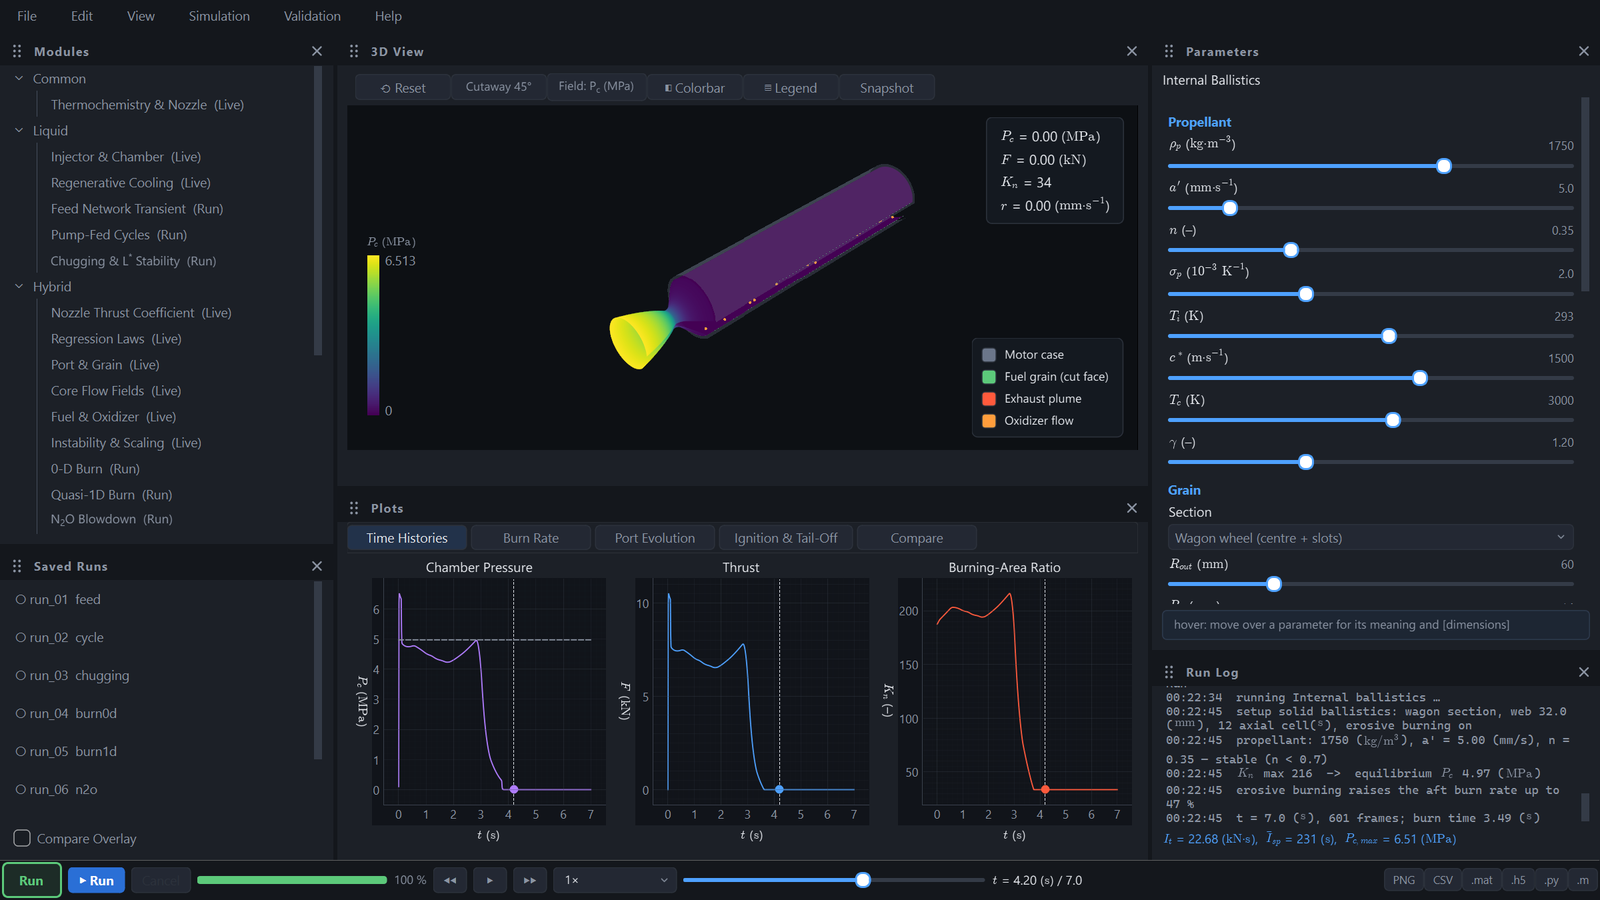
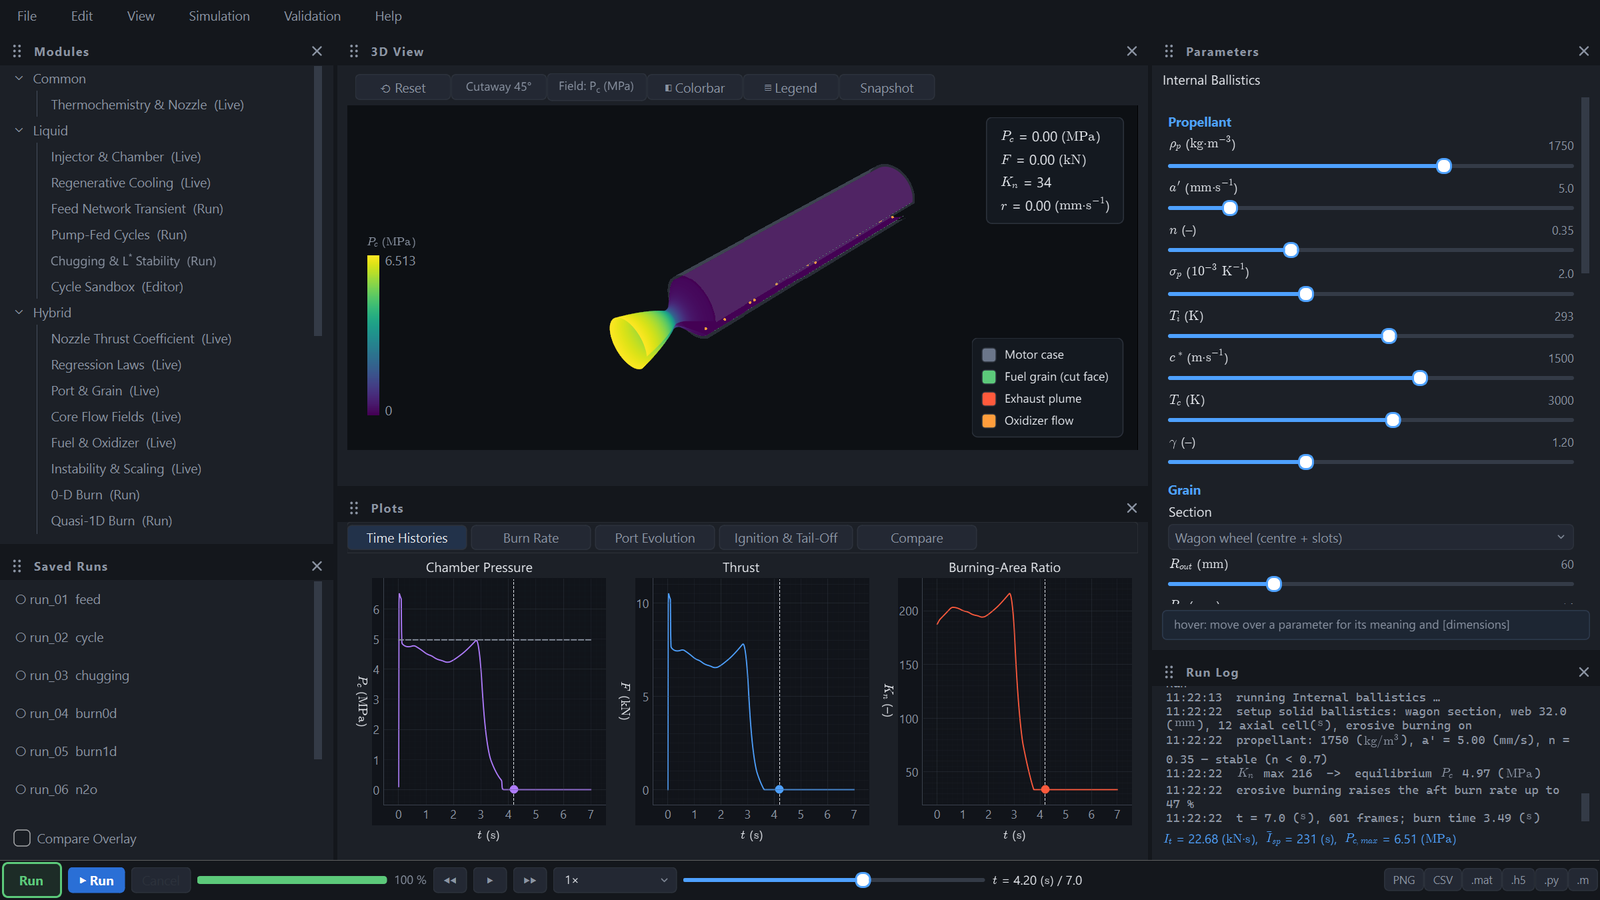
Gallery: add the Nuclear models and the cycle sandbox, renumber, regenerate all images

Changed region(s): [[0.0312, 0.3111, 0.1562, 0.5911], [0.1875, 0.3733, 0.2188, 0.4044]]

diff --git a/README.md b/README.md
@@ -271,12 +271,24 @@ Questions and bug reports: [GitHub Issues](https://github.com/Chiyami1213/propsi
     <td><img src="docs/gallery/28-low-thrust-spiral.png" alt="Low-thrust spiral: low-thrust Edelbaum spiral with solar-array degradation"><br><sub><b>Low-thrust spiral</b> (Electric, Run)</sub></td>
   </tr>
   <tr>
-    <td><img src="docs/gallery/29-vehicle-and-staging.png" alt="Vehicle & staging: staging budget (ideal velocity, mass, thrust-to-weight), atmosphere, drag and wind, with a stack sketch"><br><sub><b>Vehicle & staging</b> (Vehicle, Live)</sub></td>
-    <td><img src="docs/gallery/30-point-mass-ascent.png" alt="Point-mass ascent: 2-D point-mass ascent over a spherical Earth with staging, wind, drag and imported thrust profiles"><br><sub><b>Point-mass ascent</b> (Vehicle, Run)</sub></td>
+    <td><img src="docs/gallery/29-ntr-performance.png" alt="NTR performance: chamber temperature, pressure and area ratio give I_sp, flow, reactor power and core size against a LOX / LH₂ engine"><br><sub><b>NTR performance</b> (Nuclear, Live)</sub></td>
+    <td><img src="docs/gallery/30-reactor-criticality.png" alt="Reactor criticality: one-group bare or reflected reactor, k_eff, critical size and mass, reflector savings and the flux shape"><br><sub><b>Reactor criticality</b> (Nuclear, Live)</sub></td>
   </tr>
   <tr>
-    <td><img src="docs/gallery/31-spring-mass.png" alt="Spring-mass: damped spring-mass, a proof of the Run pipeline (not a propulsion model)"><br><sub><b>Spring-mass</b> (Toy, Run)</sub></td>
-    <td></td>
+    <td><img src="docs/gallery/31-fuel-element-thermal-hydraulics.png" alt="Fuel element thermal hydraulics: chopped-cosine power shape, propellant, wall and peak fuel temperatures and channel pressure drop"><br><sub><b>Fuel element thermal hydraulics</b> (Nuclear, Live)</sub></td>
+    <td><img src="docs/gallery/32-ntr-engine-cycles.png" alt="NTR engine cycles: hot bleed, cold bleed and expander energy balances with real hydrogen"><br><sub><b>NTR engine cycles</b> (Nuclear, Live)</sub></td>
+  </tr>
+  <tr>
+    <td><img src="docs/gallery/33-xenon-and-samarium.png" alt="Xenon & samarium: iodine-xenon and promethium-samarium poisoning over a burn, coast and restart"><br><sub><b>Xenon & samarium</b> (Nuclear, Live)</sub></td>
+    <td><img src="docs/gallery/34-reactor-kinetics-and-startup.png" alt="Reactor kinetics & startup: six-group point kinetics with feedback, startup under temperature control, reactivity steps and scram"><br><sub><b>Reactor kinetics & startup</b> (Nuclear, Run)</sub></td>
+  </tr>
+  <tr>
+    <td><img src="docs/gallery/35-vehicle-and-staging.png" alt="Vehicle & staging: staging budget (ideal velocity, mass, thrust-to-weight), atmosphere, drag and wind, with a stack sketch"><br><sub><b>Vehicle & staging</b> (Vehicle, Live)</sub></td>
+    <td><img src="docs/gallery/36-point-mass-ascent.png" alt="Point-mass ascent: 2-D point-mass ascent over a spherical Earth with staging, wind, drag and imported thrust profiles"><br><sub><b>Point-mass ascent</b> (Vehicle, Run)</sub></td>
+  </tr>
+  <tr>
+    <td><img src="docs/gallery/37-spring-mass.png" alt="Spring-mass: damped spring-mass, a proof of the Run pipeline (not a propulsion model)"><br><sub><b>Spring-mass</b> (Toy, Run)</sub></td>
+    <td><img src="docs/gallery/cycle-sandbox.png" alt="Cycle sandbox: flow-diagram editor for building and solving liquid engine cycles"><br><sub><b>Cycle sandbox</b> (Liquid, Editor)</sub></td>
   </tr>
 </table>
 
